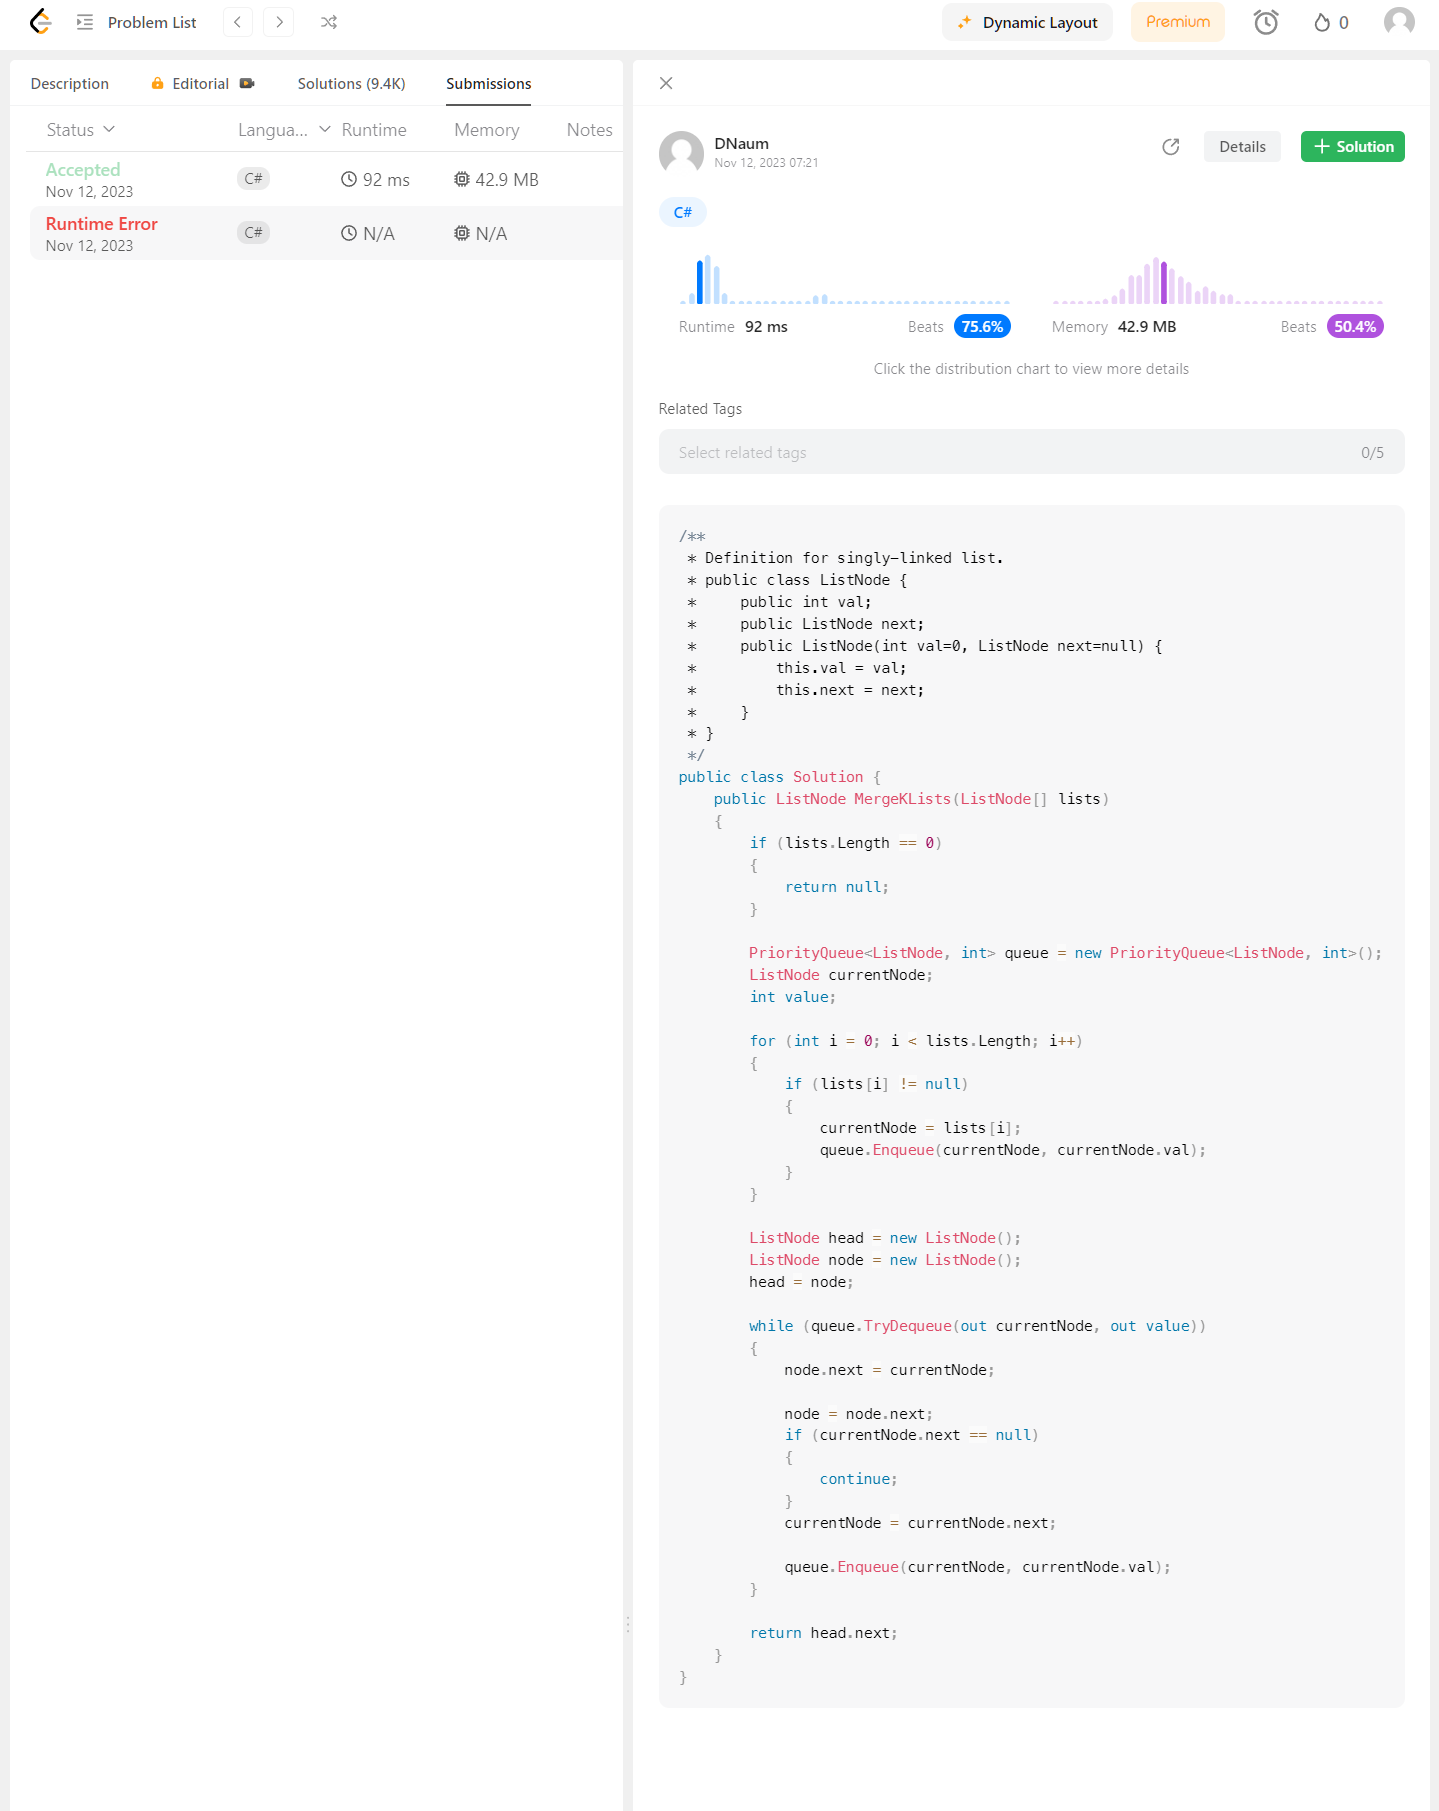
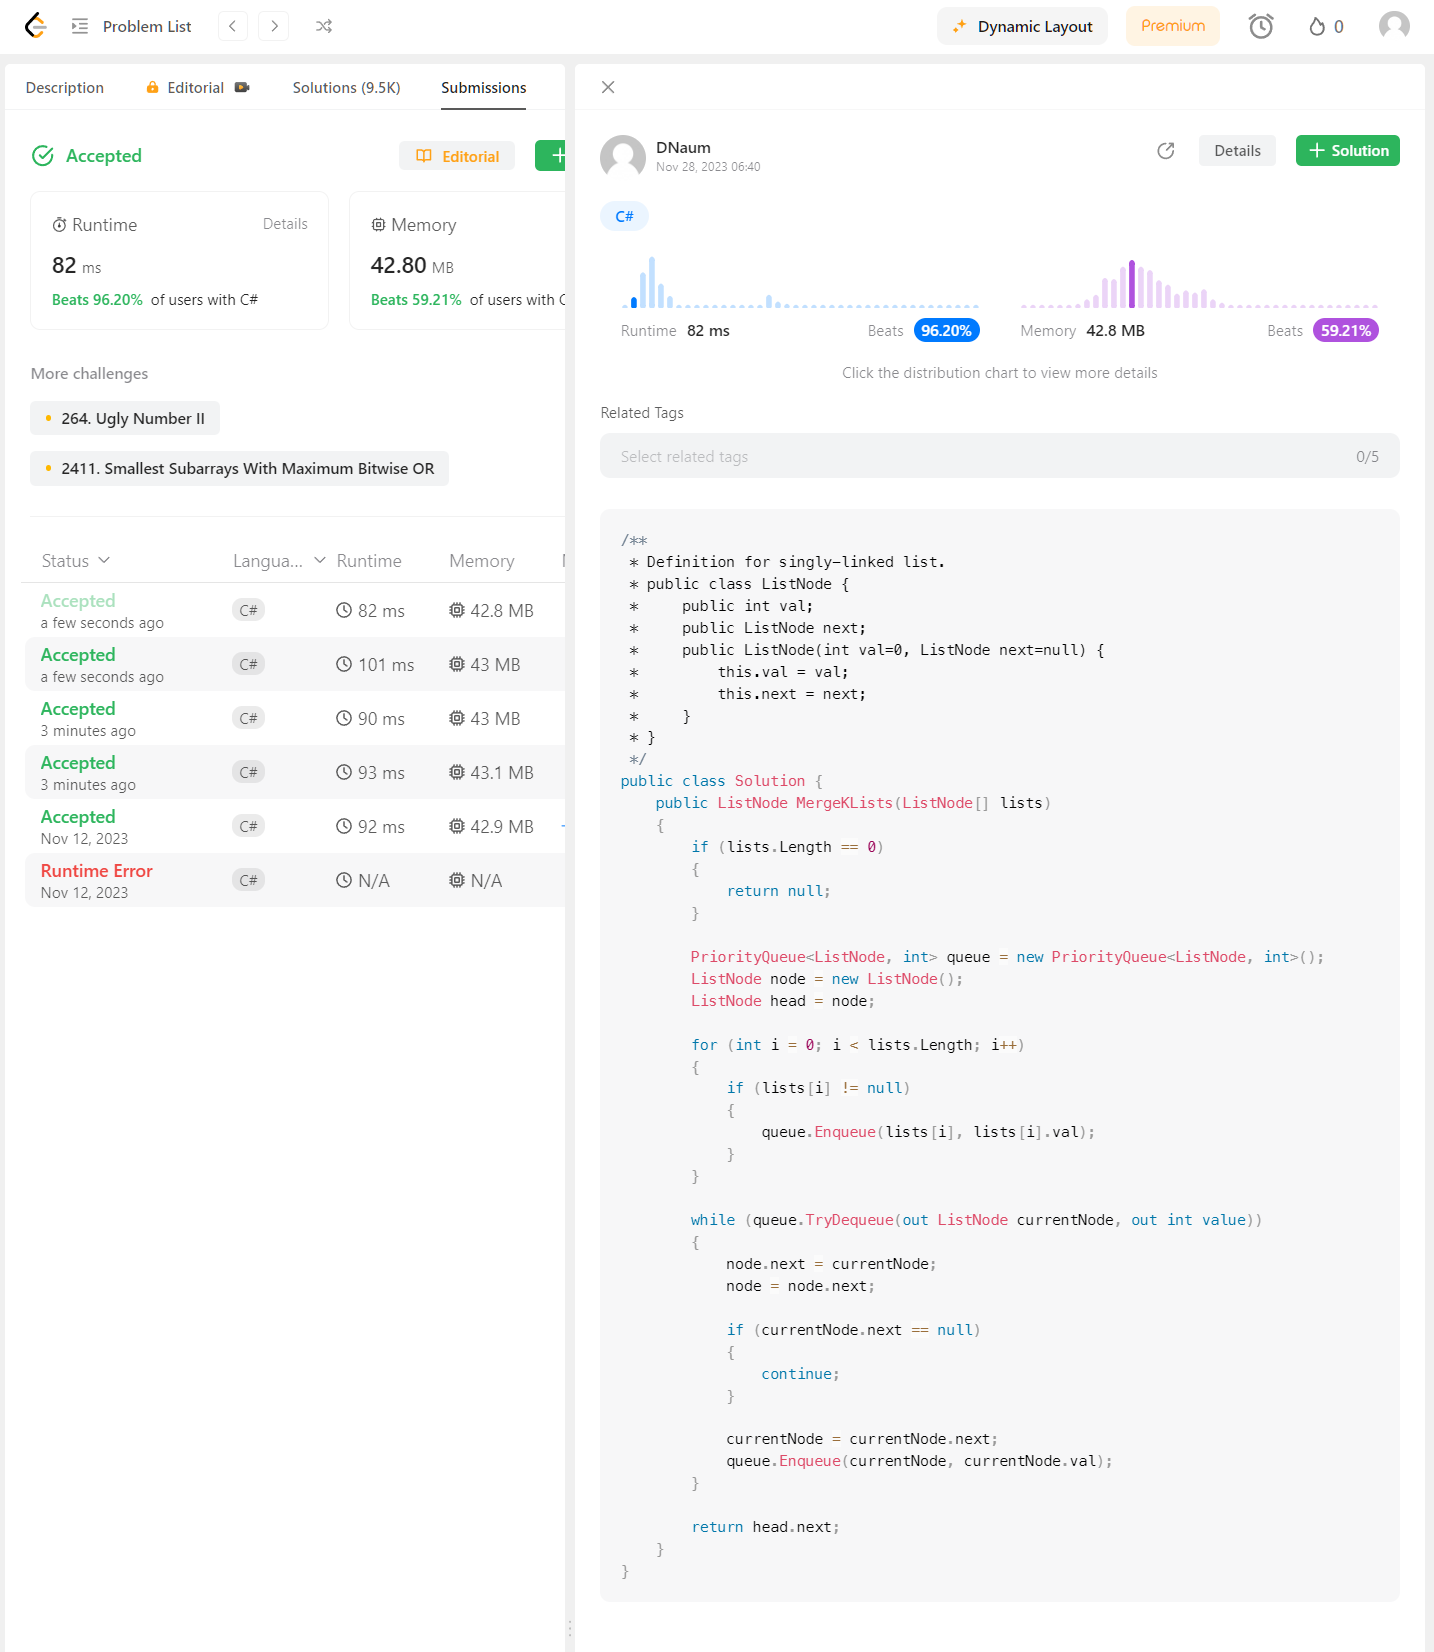
Removed unnecessary assignments and formatted a little bit.

diff --git a/ScnSoft-Education/LeetCodeTraining.Tests/MergeKsortedListsTests.cs b/ScnSoft-Education/LeetCodeTraining.Tests/MergeKsortedListsTests.cs
@@ -6,11 +6,7 @@ namespace LeetCodeTraining.Tests
     public class MergeKsortedListsTests
     {
         [Theory]
-        [InlineData("")]
-        [InlineData("", new int[] { })]
-        [InlineData("11234456", new int[] { 1, 4, 5 }, new int[] { 1, 3, 4 }, new int[] { 2, 6 })]
-        [InlineData("123456", new int[] { 1, 2 }, new int[] { 3, 4 }, new int[] { 5, 6 })]
-        [InlineData("12", new int[] { 1 }, new int[] { 2 }, new int[] { })]
+        [MemberData(nameof(Data))]
         public void MergeKListsTests(string expectedResult, params int[][] nums)
         {
             //Arrange
@@ -28,7 +24,42 @@ namespace LeetCodeTraining.Tests
             Assert.Equal(resultString, expectedResult);
         }
 
-        ListNode InitializeNode(int[] numbers)
+        public static IEnumerable<object[]> Data =>
+            new List<object[]>
+            {
+                new object[]
+                {
+                    string.Empty
+                },
+                new object[]
+                {
+                    string.Empty,
+                    new int[] { }
+                },
+                new object[]
+                {
+                    "11234456",
+                    new int[] { 1, 4, 5 },
+                    new int[] { 1, 3, 4 },
+                    new int[] { 2, 6 }
+                },
+                new object[]
+                {
+                    "123456",
+                    new int[] { 1, 2 },
+                    new int[] { 3, 4 },
+                    new int[] { 5, 6 }
+                },
+                new object[]
+                {
+                    "12",
+                    new int[] { 1 },
+                    new int[] { 2 },
+                    new int[] { }
+                }
+            };
+
+        private ListNode InitializeNode(int[] numbers)
         {
             if (numbers.Length == 0)
             {
@@ -51,7 +82,7 @@ namespace LeetCodeTraining.Tests
             return h;
         }
 
-        string DisplayNode(ListNode node)
+        private string DisplayNode(ListNode node)
         {
             StringBuilder sb = new StringBuilder();
 

diff --git a/ScnSoft-Education/LeetCodeTraining/MergeKSortedLists/MergeKSortedListsSolution.cs b/ScnSoft-Education/LeetCodeTraining/MergeKSortedLists/MergeKSortedListsSolution.cs
@@ -11,33 +11,28 @@
             }
 
             PriorityQueue<ListNode, int> queue = new PriorityQueue<ListNode, int>();
-            ListNode currentNode;
-            int value;
+            ListNode node = new ListNode();
+            ListNode head = node;
 
             for (int i = 0; i < lists.Length; i++)
             {
                 if (lists[i] != null)
                 {
-                    currentNode = lists[i];
-                    queue.Enqueue(currentNode, currentNode.val);
+                    queue.Enqueue(lists[i], lists[i].val);
                 }
             }
 
-            ListNode head = new ListNode();
-            ListNode node = new ListNode();
-            head = node;
-
-            while (queue.TryDequeue(out currentNode, out value))
+            while (queue.TryDequeue(out ListNode currentNode, out int value))
             {
                 node.next = currentNode;
-
                 node = node.next;
+
                 if (currentNode.next == null)
                 {
                     continue;
                 }
-                currentNode = currentNode.next;
 
+                currentNode = currentNode.next;
                 queue.Enqueue(currentNode, currentNode.val);
             }
 
